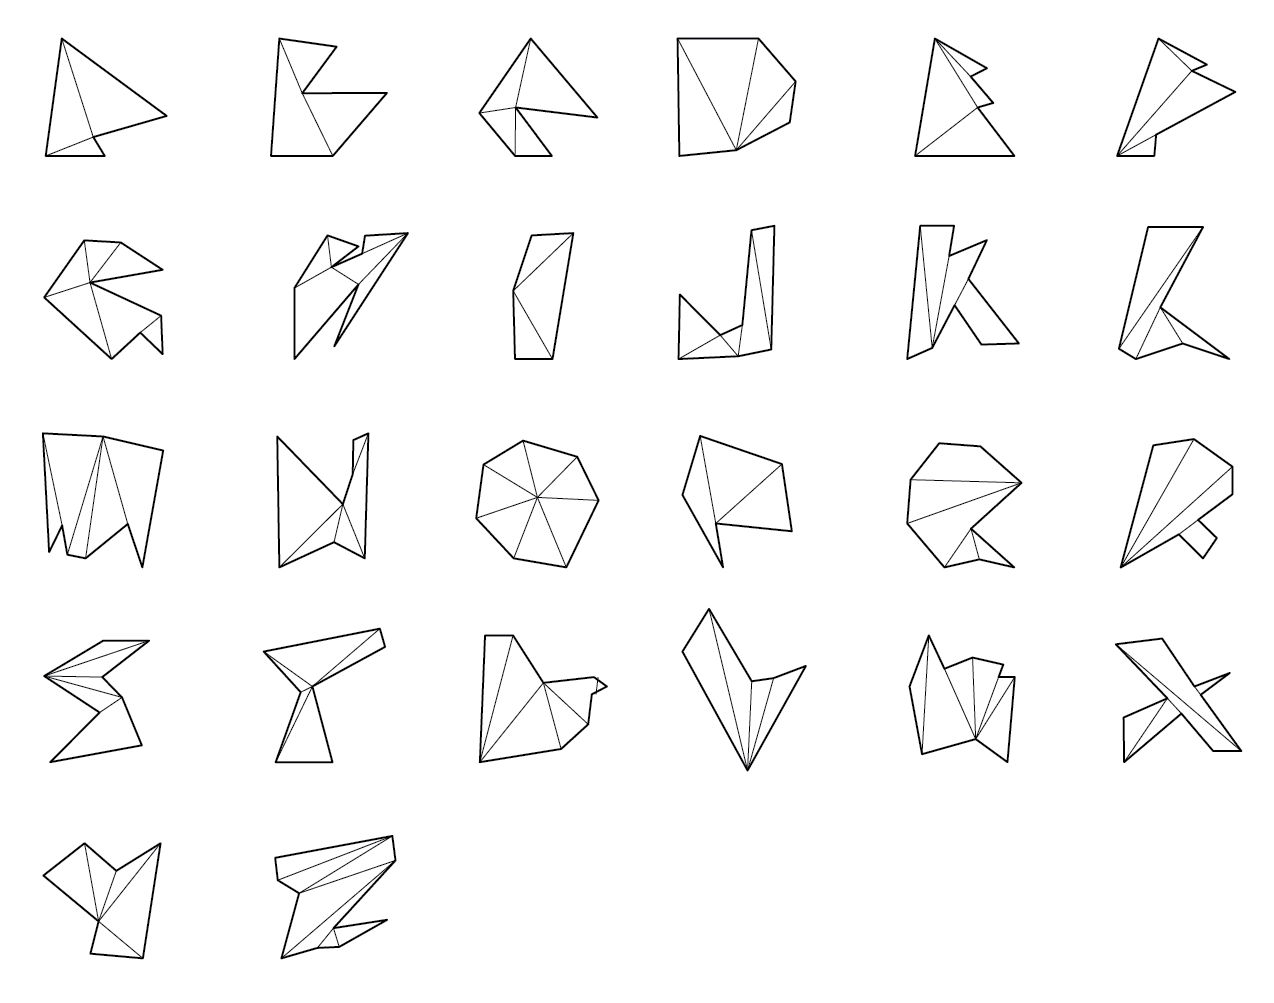
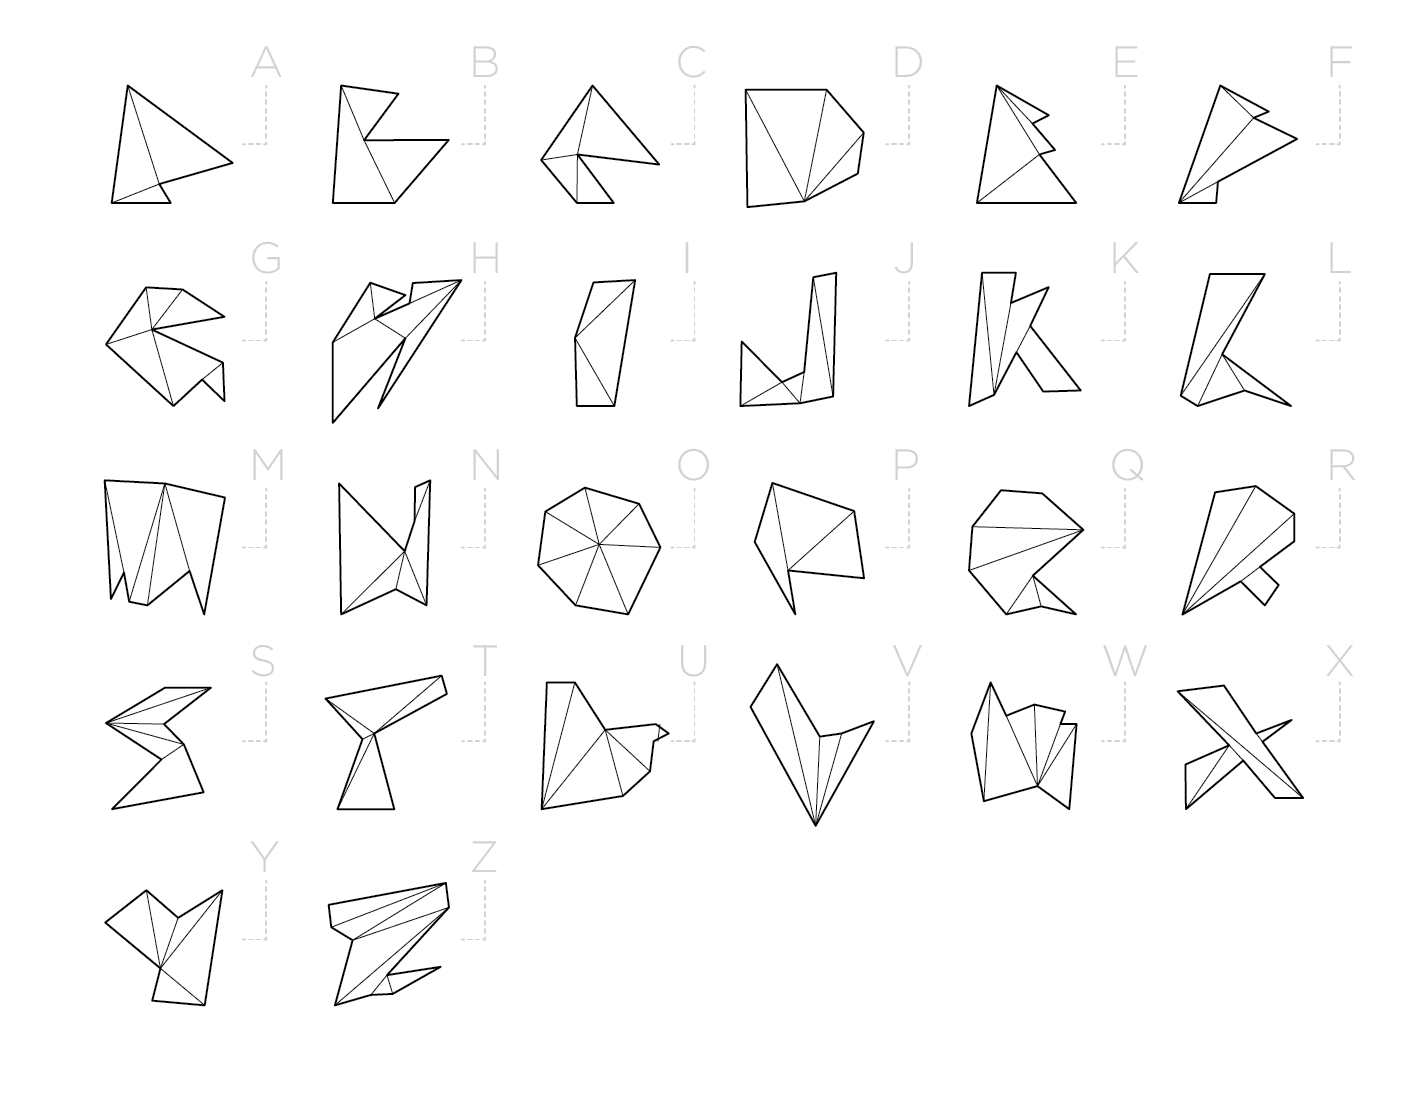
added bold photos

diff --git a/partials/partial6.html b/partials/partial6.html
@@ -3,8 +3,11 @@
 <div class="columnsContainer">
 
 	<div class="leftColumn" style="opacity: 0.8">
-		<img ng-src='img/picView06_1.jpg' ng-class='projectImage' width='97%'></img>
-		<img ng-src='img/BOLD_letters.png' ng-class='projectImage' width='100%'></img>
+		<img ng-src='img/picView06_1.jpg' ng-class='projectImage' width='97%'/>
+		<img ng-src='img/BOLD_letters.png' ng-class='projectImage' width='100%'/><br>
+		<img ng-src='img/BOLD_1.jpg' ng-class='projectImage' width='32%' style='border: 1pt solid gray'/>&nbsp;
+		<img ng-src='img/BOLD_2.jpg' ng-class='projectImage' width='32%' style='border: 1pt solid gray'/>&nbsp;
+		<img ng-src='img/BOLD_3.jpg' ng-class='projectImage' width='32%' style='border: 1pt solid gray'/><br><br>
 	</div>
 
 	<div class="rightColumn">
